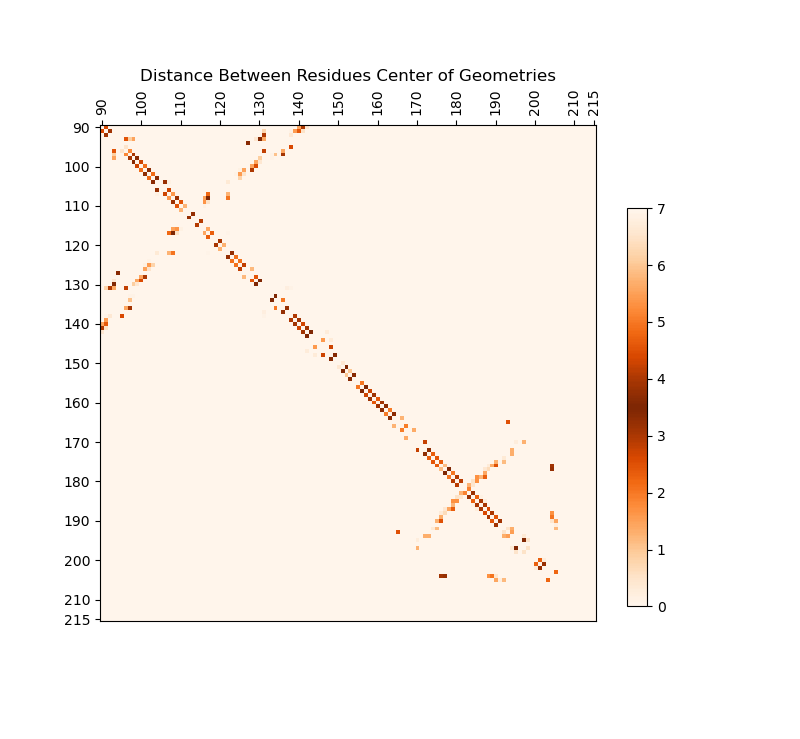
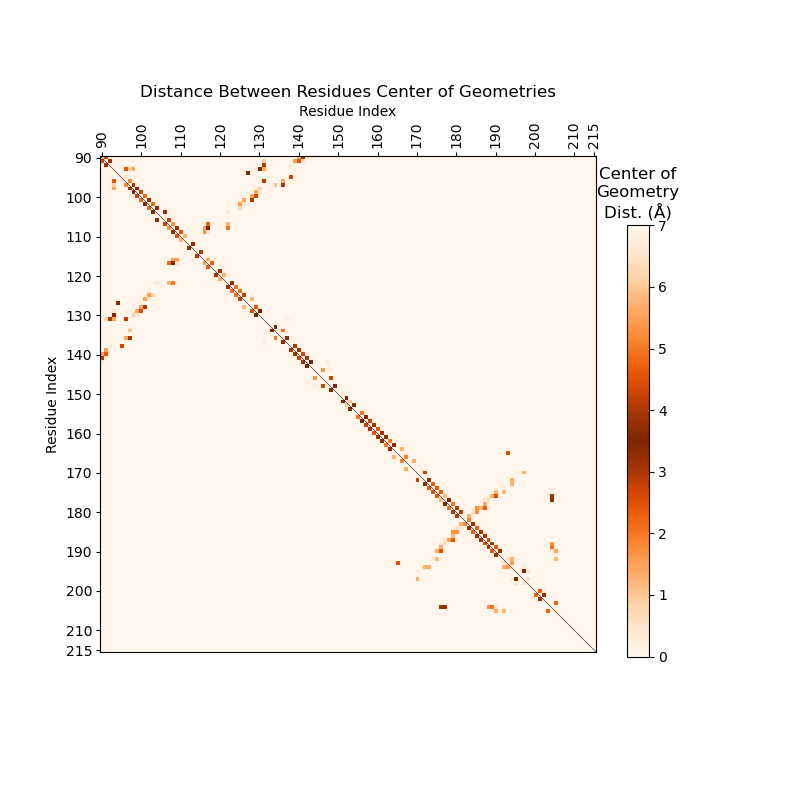
added psf/ssf to -s option

diff --git a/stacker.py b/stacker.py
@@ -6,6 +6,7 @@ from file_manipulation import *
 from residue_movement import write_bottaro_to_csv
 from pairwise_distance import calculate_residue_distance, get_residue_distance_for_frame, get_frame_average, get_top_stacking
 from visualization import display_arrays_as_video, visualize_two_residue_movement_heatmap, visualize_two_residue_movement_scatterplot
+import random
 
 class InvalidRoutine(Exception):
     pass
@@ -53,11 +54,11 @@ def run_python_command() -> None:
             '            Name of command to use. Options for ROUTINE:\n\n' + \
             '              filter_traj:\n' +\
             '                    filters trajectory and topology files to desired residue numbers and atom names\n' + \
-            '              bottaro:\n' +\
+            '              bottaro OR pairwise OR psf:\n' +\
             '                    Create polar plots like those in Figure 1 of Bottaro et. al (https://doi.org/10.1093/nar/gku972)\n' + \
             '              res_distance:\n' + \
             '                    Get the distance between two residues in a given frame\n' + \
-            '              pairwise:\n' + \
+            '              system OR ssf:\n' + \
             '                    Create a stacking fingerprint of distances by residue\n' + \
             '              stack_events:\n' + \
             '                    Get list of residues with most stacking events (distance closest to 3.5Å)\n' + \
@@ -70,23 +71,23 @@ def run_python_command() -> None:
     if ('-s' not in remaining_args and '--script' not in remaining_args and ('--help' in remaining_args or '-h' in remaining_args)): 
         parser.add_argument("-s", "--script", metavar="ROUTINE", help='Name of command to use. Options for ROUTINE:\n\n' + \
                             "  filter_traj:\n\tfilters trajectory and topology files to desired residue numbers and atom names\n" + \
-                            "  bottaro:\n\tCreate polar plots like those in Figure 1 of Bottaro et. al (https://doi.org/10.1093/nar/gku972)\n" + \
+                            "  bottaro OR pairwise OR psf:\n\tCreate polar plots like those in Figure 1 of Bottaro et. al (https://doi.org/10.1093/nar/gku972)\n" + \
                             "  res_distance:\n\tGet the distance between two residues in a given frame\n" +\
-                            "  pairwise:\n\tCreate a stacking fingerprint of distances by residue\n" + \
+                            "  system OR ssf:\n\tCreate a stacking fingerprint of distances by residue\n" + \
                             "  stack_events:\n\tGet list of residues with most stacking events (distance closest to 3.5Å)\n" +\
                             "  compare:\n\tGet the most changed stacking events between two fingerprints using the outputs of python stacker.py -s stack_events\n",
-                             required=True, default='', choices=['filter_traj', 'bottaro', 'res_distance', 'pairwise', 'stack_events', 'compare'])
+                             required=True, default='', choices=['filter_traj', 'bottaro', 'pairwise', 'psf', 'res_distance', 'system', 'ssf', 'stack_events', 'compare'])
         parser.add_argument("-h", "--help", help="show this help message and exit", action='help')
         args = parser.parse_args()
 
     parser.add_argument("-s", "--script", metavar="ROUTINE", help='Name of command to use. Options for ROUTINE:\n\n' + \
                             "  filter_traj:\n\tfilters trajectory and topology files to desired residue numbers and atom names\n" + \
-                            "  bottaro:\n\tCreate polar plots like those in Figure 1 of Bottaro et. al (https://doi.org/10.1093/nar/gku972)\n" + \
+                            "  bottaro OR pairwise OR psf:\n\tCreate polar plots like those in Figure 1 of Bottaro et. al (https://doi.org/10.1093/nar/gku972)\n" + \
                             "  res_distance:\n\tGet the distance between two residues in a given frame\n" +\
-                            "  pairwise:\n\tCreate a stacking fingerprint of distances by residue\n" + \
+                            "  system OR ssf:\n\tCreate a stacking fingerprint of distances by residue\n" + \
                             "  stack_events:\n\tGet list of residues with most stacking events (distance closest to 3.5Å)\n" +\
                             "  compare:\n\tGet the most changed stacking events between two fingerprints using the outputs of python stacker.py -s stack_events\n",
-                             required=True, default='', choices=['filter_traj', 'bottaro', 'res_distance', 'pairwise', 'stack_events', 'compare'])
+                             required=True, default='', choices=['filter_traj', 'bottaro', 'pairwise', 'psf', 'res_distance', 'system', 'ssf', 'stack_events', 'compare'])
       
     args, remaining_args = parser.parse_known_args()
 
@@ -105,7 +106,7 @@ def run_python_command() -> None:
         parser.add_argument("-r", "--residues", metavar="RESIDUES", help="Smart-indexed list of 1-indexed residues, also accepts dash (-) list creation (eg. 1-5,10 = 1,2,3,4,5,10)", required=False, action = SmartIndexingAction)
         parser.add_argument("-a", "--atom_names", metavar="ATOM_NAMES", help="Comma-separated list of atom names to filter", required=False, default="C2,C4,C6")
 
-    if args.script == 'bottaro':
+    if args.script == 'bottaro' or args.script == 'pairwise' or args.script == 'psf':
         parser.description = 'Create polar plots of the movement of a "viewed residue" from the perspective of a "perspective residue"\nlike those in Figure 1 of Bottaro et. al (https://doi.org/10.1093/nar/gku972). Creates CSV of these values' + \
                                 '\n\nExamples:\n' +\
                                 '\n[user]$ python3 stacker.py -s bottaro -trj testing/first10_5JUP_N2_tUAG_aCUA_+1GCU_nowat.mdcrd -top testing/5JUP_N2_tUAG_aCUA_+1GCU_nowat.prmtop -pdb testing/5JUP_N2_tUAG_aCUA_+1GCU_nowat_mdcrd.pdb -o testing/command_line_tests/bottaro/tUAG_aCUA_+1GCU_GC_plot.csv -p 426 -v 427 -pa C2,C4,C6 -va C2,C4,C6 -pt scatter\n' +\
@@ -133,15 +134,16 @@ def run_python_command() -> None:
         required_group = parser.add_argument_group('Required Arguments')
         required_group.add_argument("-trj", "--trajectory", metavar="TRAJECTORY_FILENAME", help="Filepath to trajectory file for the MD simulation", required=True)
         required_group.add_argument("-top", "--topology", metavar="TOPOLOGY_FILENAME", help="Filepath to Topology file for the MD simulation", required=True)
-        required_group.add_argument("-f", "--frame", type=int, metavar="FRAME_NUM", help="1-indexed Frame Number within trajectory to analyze", required=True)
+        parser.add_argument("-f", "--frame", type=int, metavar="FRAME_NUM", help="1-indexed Frame Number within trajectory to analyze", required=False)
         required_group.add_argument("-r", "--residues", metavar="RESIDUES", help="Smart-indexed list of 1-indexed residues, must provide only 2 residues, accepts dash (-) list creation (eg. 1-5,10 = 1,2,3,4,5,10)", required=True, action = SmartIndexingAction)
+        parser.add_argument("-b", "--bootstrap", metavar="N_FRAMES", help="Run bootstrap analysis on this residue pairing, sampling N_FRAMES with replacement", required=False, type = int)
         parser.add_argument("-a", "--atom_names", metavar="ATOM_NAMES", help="Comma-separated list of atom names. Three required to get center of geometry for a residue. default = C2,C4,C6", required=False, default="C2,C4,C6")
 
-    if args.script == 'pairwise':
+    if args.script == 'system' or args.script == 'ssf':
         parser.description = 'Creates a stacking fingerprint of the average structure across the chosen frames of a trajectory.' + \
                                 '\n\nExamples:\n' +\
-                                '\n[user]$ python stacker.py -s pairwise -trj testing/first10_5JUP_N2_tUAG_aCUA_+1GCU_nowat.mdcrd -top testing/5JUP_N2_tUAG_aCUA_+1GCU_nowat.prmtop -r 90-215 -fl 1-2\n' +\
-                                '\n[user]$ python stacker.py -s pairwise -trj testing/first10_5JUP_N2_tUAG_aCUA_+1GCU_nowat.mdcrd -top testing/5JUP_N2_tUAG_aCUA_+1GCU_nowat.prmtop -r 90-215 -fl 1-2 -g 10 -o testing/command_line_tests/pairwise/5JUP_N2_tUAG_aCUA_+1GCU_nowat_pairwise_avg_1to2.png -d testing/command_line_tests/pairwise/5JUP_N2_tUAG_aCUA_+1GCU_data_1to2.txt\n'
+                                '\n[user]$ python stacker.py -s system -trj testing/first10_5JUP_N2_tUAG_aCUA_+1GCU_nowat.mdcrd -top testing/5JUP_N2_tUAG_aCUA_+1GCU_nowat.prmtop -r 90-215 -fl 1-2\n' +\
+                                '\n[user]$ python stacker.py -s ssf -trj testing/first10_5JUP_N2_tUAG_aCUA_+1GCU_nowat.mdcrd -top testing/5JUP_N2_tUAG_aCUA_+1GCU_nowat.prmtop -r 90-215 -fl 1-2 -g 10 -o testing/command_line_tests/pairwise/5JUP_N2_tUAG_aCUA_+1GCU_nowat_pairwise_avg_1to2.png -d testing/command_line_tests/pairwise/5JUP_N2_tUAG_aCUA_+1GCU_data_1to2.txt\n'
         
         required_group = parser.add_argument_group('Required Arguments')
         required_group.add_argument("-trj", "--trajectory", metavar="TRAJECTORY_FILENAME", help="Filepath to trajectory file for the MD simulation", required=True)
@@ -245,12 +247,12 @@ def convert_to_python_command() -> None:
 
     if command == 'filter_traj':
         filter_traj_routine()
-    elif command == 'bottaro':
+    elif command == 'bottaro' or command == 'pairwise' or command == 'psf':
         bottaro_routine()
     elif command == 'res_distance':
         res_distance_routine()
-    elif command == 'pairwise':
-        pairwise_routine()
+    elif command == 'system' or command == 'ssf':
+        system_routine()
     elif command == 'stack_events':
         stack_events_routine()
     elif command == 'compare':
@@ -373,15 +375,32 @@ def res_distance_routine() -> None:
 
     block_printing()
     filtered_trj = filter_traj(trajectory_filename=args.trajectory, topology_filename=args.topology, residues_desired=residues_desired, atomnames_desired=atomnames_desired)
-    trj_frame = filtered_trj[args.frame-1]
+    if args.bootstrap:
+        n_frames = len(filtered_trj)
+        frames = [random.randint(0, n_frames-1) for _ in range(args.bootstrap)]
+    else:
+        frames = [args.frame-1]
 
+    i = 0
     residues_desired = list(residues_desired)
-    # Correct that calculate_residue_distance res_nums are 1-indexed
-    distance_vector = calculate_residue_distance(trajectory=trj_frame, res1_num=int(residues_desired[0]), res2_num=int(residues_desired[1]), res1_atoms=tuple(atomnames_desired), res2_atoms=tuple(atomnames_desired))
-    enable_printing()
-    print(distance_vector.magnitude())
+    res_distances = []
+    for frame in frames:
+        trj_frame = filtered_trj[frame]
+        # Correct that calculate_residue_distance res_nums are 1-indexed
+        print(i)
+        i+=1
+        distance_vector = calculate_residue_distance(trajectory=trj_frame, res1_num=int(residues_desired[0]), res2_num=int(residues_desired[1]), res1_atoms=tuple(atomnames_desired), res2_atoms=tuple(atomnames_desired))
+        enable_printing()
+        res_distances.append(distance_vector.magnitude())
 
-def pairwise_routine() -> None:
+    if args.bootstrap:
+        print("Bootstrap Mean Distance:", np.mean(res_distances))
+        print("Bootstrap Standard Deviation:", np.std(res_distances))
+        print("Bootstrap Percentile:", np.percentile(res_distances, [2.5,5.0, 95.0, 97.5]))
+    else:
+        print(res_distances[0])
+
+def system_routine() -> None:
     '''Runs the Pairwise distance routine to create a single pairwise distance matrix for a chosen frame
 
     Runs the routine to create a pairwise distance matrix for a passed in trajectory and frame.

diff --git a/visualization.py b/visualization.py
@@ -72,7 +72,7 @@ def create_axis_labels(res_indicies : typing.ArrayLike, tick_distance : int = 10
 def display_arrays_as_video(numpy_arrays : list | typing.ArrayLike, res_indicies : typing.ArrayLike, 
                             seconds_per_frame : int = 10, tick_distance : int = 10,
                             outfile_prefix : str = '', scale_limits : tuple = (0,7),
-                            scale_style : str = 'bellcurve', xy_line : bool = False) -> None:
+                            scale_style : str = 'bellcurve', xy_line : bool = True) -> None:
     '''Displays list/array of 2D NumPy arrays as matrix heatmaps
 
     Takes list/array of 2D NumPy arrays and treats them as frames 
@@ -120,7 +120,13 @@ def display_arrays_as_video(numpy_arrays : list | typing.ArrayLike, res_indicies
         vmin, vmax = scale_limits
         neg = ax.imshow(hist, cmap = newcmp, vmin=vmin, vmax=vmax, interpolation = 'nearest')
         ax.set_title('Distance Between Residues Center of Geometries')
+        ax.set_title('Distance Between Residues Center of Geometries')
+        ax.set_xlabel('Residue Index')  
+        ax.xaxis.set_label_position('top')  
+        ax.set_ylabel('Residue Index')  
         colorbar = fig.colorbar(neg, ax=ax, location='right', anchor=(0, 0.3), shrink=0.7)
+        colorbar.ax.set_title('Center of\nGeometry\nDist. (Å)')
+
         ticks, labels = create_axis_labels(res_indicies, tick_distance)
         plt.xticks(ticks, labels, rotation = 'vertical')
         plt.yticks(ticks, labels)
@@ -274,6 +280,11 @@ def visualize_two_residue_movement_heatmap(csv_filepath : str, plot_outfile : st
     ax = kdeplot(x=theta_values_rad, y=rho_values, fill=True, levels = [0.1*i for i in range(1,11)], cbar = True, cmap = 'gist_earth_r')
     plt.xlabel('')
     plt.ylabel('')
+
+    cbar = ax.collections[-1].colorbar
+    levels = [0.1*i for i in range(1,11)]
+    formatted_labels = ['{:.1f}'.format(level) for level in levels]
+    cbar.set_ticklabels(formatted_labels)
 
     # Draw nucleotide ring in polar plot
     r_for_ring = np.ones(7)*1.3

diff --git a/pairwise_distance.py b/pairwise_distance.py
@@ -221,8 +221,10 @@ def get_frame_average(frames : typing.ArrayLike) -> typing.ArrayLike:
     return avg_frame
 
 if __name__ == "__main__":
+    trajectory_file = 'testing/first10_5JUP_N2_tUAG_aCUA_+1GCU_nowat.mdcrd'
+    topology_file = 'testing/5JUP_N2_tUAG_aCUA_+1GCU_nowat.prmtop'
     # Load test trajectory and topology
-    trj = md.load('testing/first10_5JUP_N2_tUAG_aCUA_+1GCU_nowat.mdcrd', top = 'testing/5JUP_N2_tUAG_aCUA_+1GCU_nowat.prmtop')
+    trj = md.load(trajectory_file, top = topology_file)
 
     # "Correct" residue distances determined using PyMOL, a standard interface
     # for visualizing 3D molecules (distances limited to 3 decimal places)
@@ -253,11 +255,15 @@ if __name__ == "__main__":
                                                                                                                [11.712, 6.885,   0]])))
 
     # display_arrays_as_video() tests
-    trj_sub = trj.atom_slice(trj.top.select('resi 90 to 215'))
+    residue_selection_query = 'resi 90 to 215'
+    frames_to_include = [1]
+
+    trj_sub = trj.atom_slice(trj.top.select(residue_selection_query))
     resSeqs = [res.resSeq for res in trj_sub.topology.residues]
-    frames = [get_residue_distance_for_frame(trj_sub, i) for i in range(1,2)]
+    frames = [get_residue_distance_for_frame(trj_sub, i) for i in frames_to_include]
     get_top_stacking(trj_sub, frames[0])
     display_arrays_as_video([get_frame_average(frames)], resSeqs, seconds_per_frame=10)
+
     display_arrays_as_video(frames, resSeqs, seconds_per_frame=10)
 
     # All Residues one large matrix
